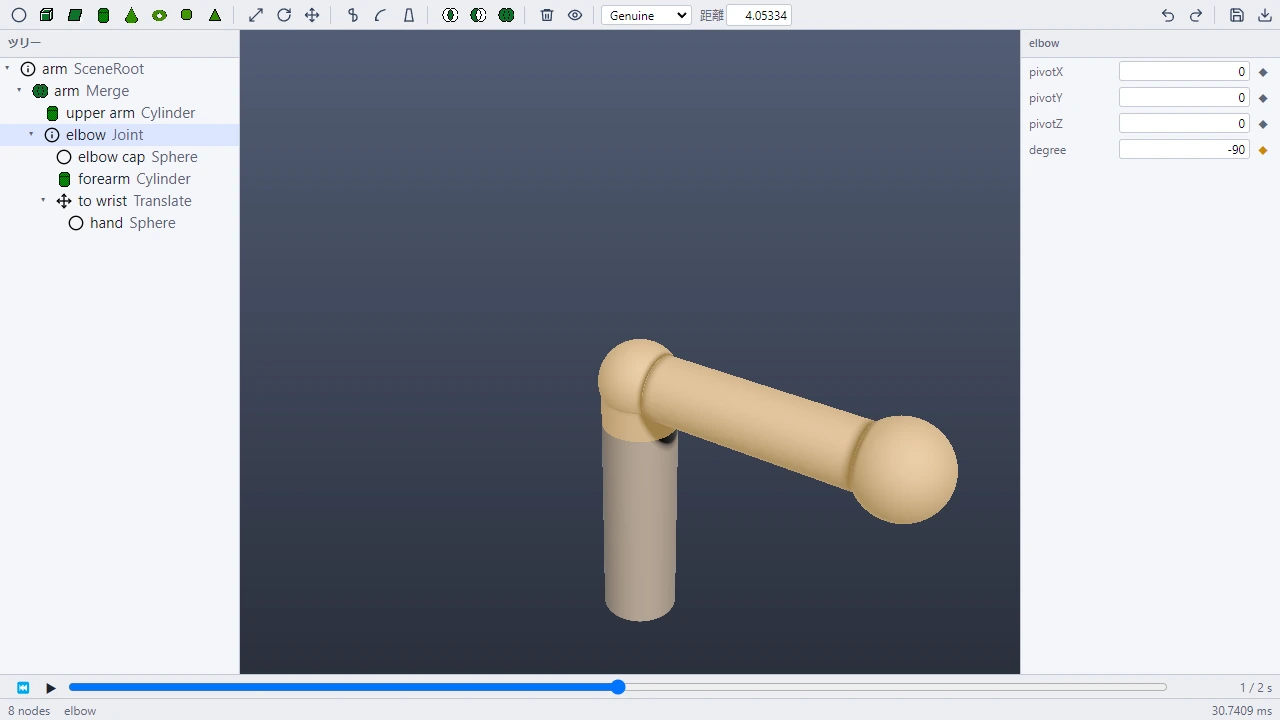
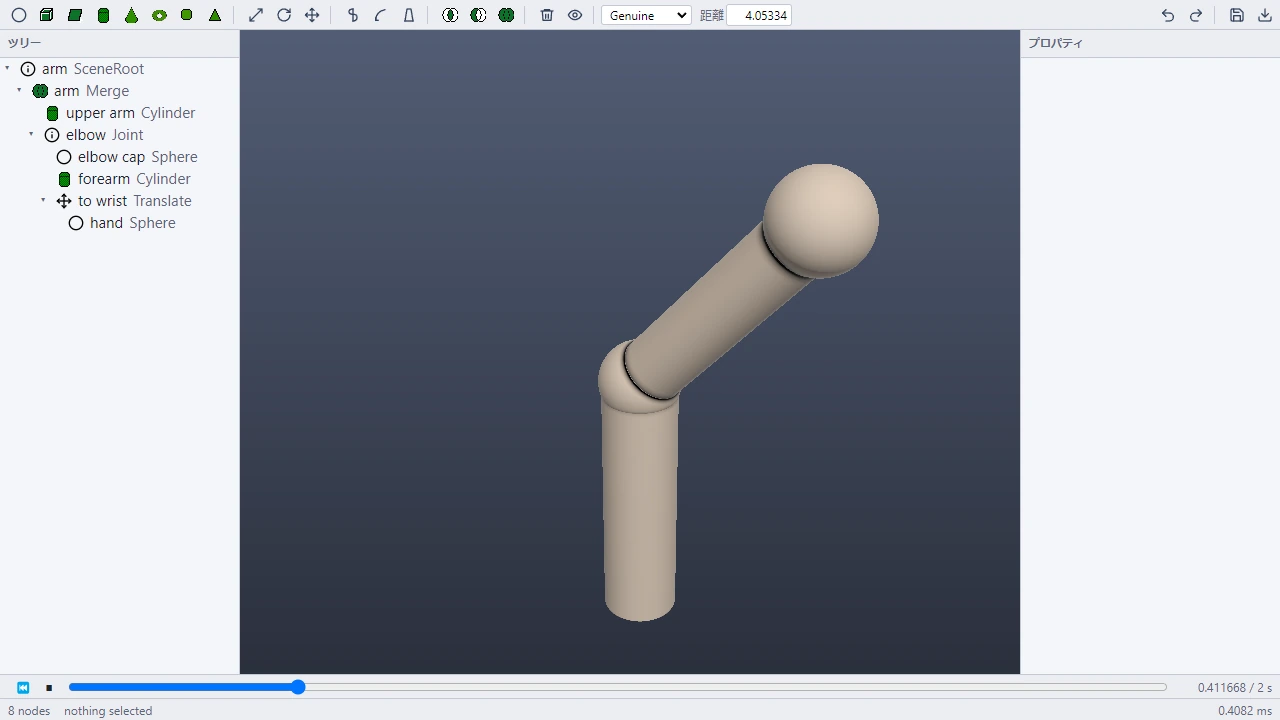
feat: Makina の動いている画面を載せる

diff --git a/makina.html b/makina.html
@@ -73,6 +73,15 @@
                             <h2>どんな絵が出るか</h2>
                             <div class="sec-body">
                                 <figure class="plate">
+                                    <video autoplay loop muted playsinline preload="metadata"
+                                           poster="images/makina/viewport.webp" width="1280" height="720"
+                                           aria-label="モデラーの画面。左のツリーに arm の階層、中央に腕のモデル、下にタイムライン。再生すると肘の関節が曲がり、前腕と手が持ち上がっていく。">
+                                        <source src="videos/makina_arm.mp4" type="video/mp4">
+                                        <img src="images/makina/viewport.webp" alt="モデラーの画面。左にツリー、中央にビューポート、右にプロパティ、下にタイムライン。肘を曲げた腕のモデルが表示されている。" loading="lazy" decoding="async" width="1280" height="720">
+                                    </video>
+                                    <figcaption>実際の画面（録画）。肘に打ったキーを再生すると、腕が曲がる。左のツリー、下のタイムラインも同じウィンドウの一部で、HTML と CSS で描いている。</figcaption>
+                                </figure>
+                                <figure class="plate">
                                     <img src="images/makina/flange.webp" alt="円盤状のフランジ部品。外周の縁とボルト穴のまわりが擦れて明るく光り、平らな面の窪みには汚れが溜まっている。" loading="lazy" decoding="async" width="1280" height="720">
                                     <figcaption>フランジ。縁が擦れて光り、窪みに汚れが溜まる。テクスチャは 1 枚も貼っていない。</figcaption>
                                 </figure>
@@ -86,11 +95,8 @@
                                     <a href="images/makina/penrose.webp" target="_blank">
                                         <img loading="lazy" decoding="async" src="images/makina/penrose.webp" alt="立方体を並べて組んだペンローズの三角形。ある角度から見ると輪が閉じて見える。" width="1280" height="720">
                                     </a>
-                                    <a href="images/makina/viewport.webp" target="_blank">
-                                        <img loading="lazy" decoding="async" src="images/makina/viewport.webp" alt="モデラーの画面。左にツリー、中央にビューポート、右にプロパティ、下にタイムラインが並び、肘を曲げた腕のモデルが表示されている。" width="1280" height="720">
-                                    </a>
                                 </div>
-                                <p class="fine">4 枚とも実機のレンダリング結果です。ペットボトルとペンローズの三角形は Grasp3D の課題を移したもの。右下はモデラーの画面で、ツリー・ビューポート・プロパティ・タイムラインという Grasp3D と同じ配置にしてあります。</p>
+                                <p class="fine">3 枚とも実機のレンダリング結果です。ペットボトルとペンローズの三角形は Grasp3D の課題を移したもの。画面の配置は、ツリー・ビューポート・プロパティ・タイムラインという Grasp3D と同じ並びにしてあります。</p>
                             </div>
                         </section>
 
